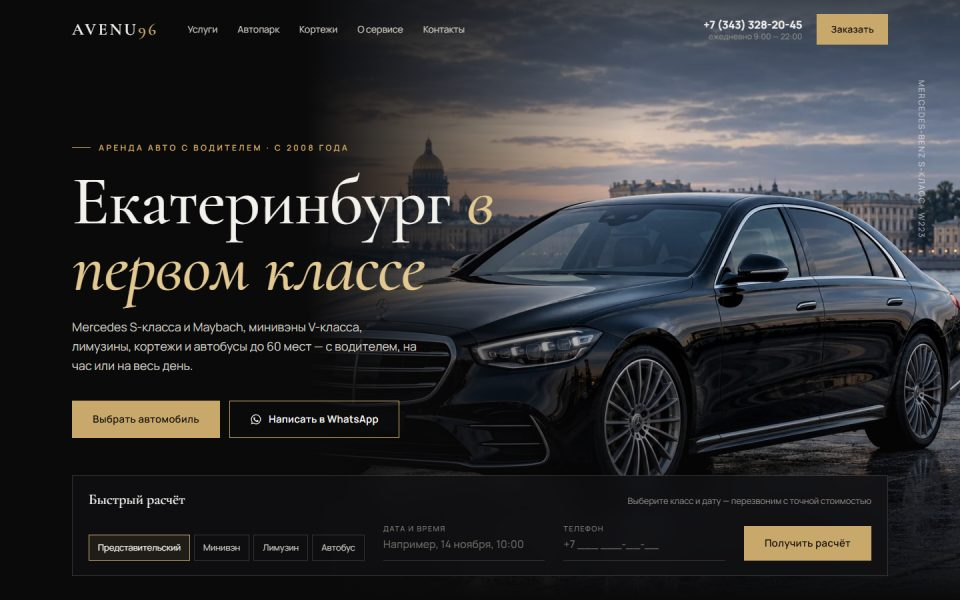
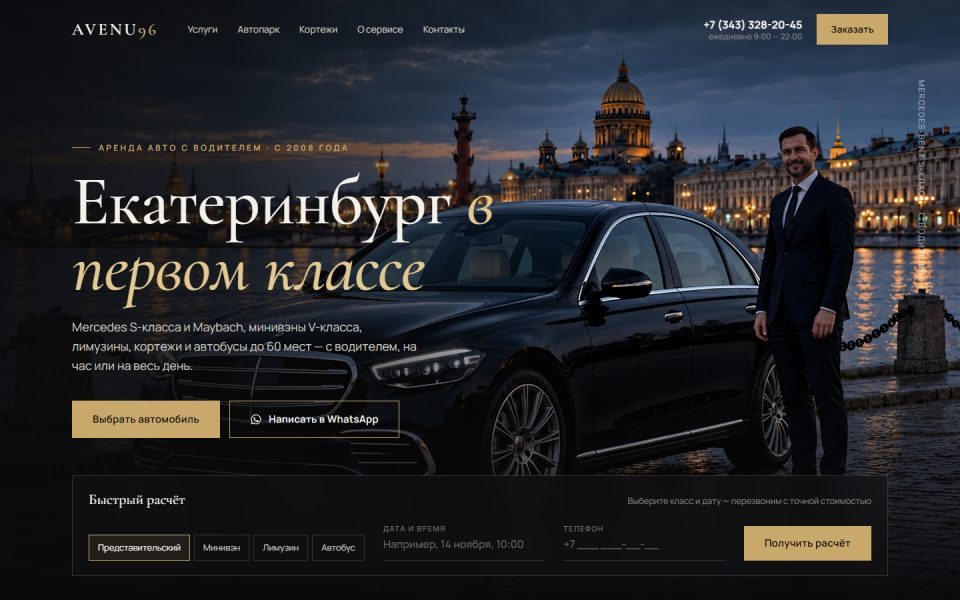
Dark concept: full-bleed hero with the S-class and chauffeur (merc-spb image)

diff --git a/1-dark.html b/1-dark.html
@@ -53,11 +53,11 @@ nav a:hover:after{right:0}
 
 /* hero */
 .hero{position:relative;min-height:max(720px,100svh);display:flex;align-items:flex-end;overflow:hidden;isolation:isolate}
-.hero .ph{position:absolute;top:0;right:0;bottom:0;width:68%;z-index:-2}
-.hero .ph img{width:100%;height:100%;object-fit:cover;object-position:58% 62%;filter:brightness(.92) contrast(1.05) saturate(.95);transform:scale(1.08);animation:drift 18s var(--ease) forwards}
+.hero .ph{position:absolute;inset:0;z-index:-2}
+.hero .ph img{width:100%;height:100%;object-fit:cover;object-position:62% 30%;filter:brightness(.95) contrast(1.04) saturate(.95);transform:scale(1.08);animation:drift 18s var(--ease) forwards}
 @keyframes drift{to{transform:scale(1)}}
 .hero:before{content:"";position:absolute;inset:0;z-index:-1;background:
-  linear-gradient(90deg,var(--bg) 0%,var(--bg) 32%,rgba(10,10,11,.6) 46%,rgba(10,10,11,0) 66%),
+  linear-gradient(90deg,rgba(10,10,11,.92) 0%,rgba(10,10,11,.78) 24%,rgba(10,10,11,.45) 42%,rgba(10,10,11,0) 62%),
   linear-gradient(0deg,var(--bg) 0%,rgba(10,10,11,.5) 22%,rgba(10,10,11,0) 46%),
   linear-gradient(180deg,rgba(10,10,11,.6) 0%,rgba(10,10,11,0) 22%)}
 .hero .wrap{width:100%;display:flex;flex-direction:column;justify-content:space-between;min-height:inherit;padding-bottom:36px;padding-top:150px;gap:56px}
@@ -209,7 +209,7 @@ footer .wrap{display:flex;justify-content:space-between;gap:20px;flex-wrap:wrap}
   .hcall .tel{font-size:15px}
   .hero{min-height:auto}
   .hero .ph{bottom:auto;height:470px;width:100%}
-  .hero .ph img{object-position:52% 60%}
+  .hero .ph img{object-position:42% 60%}
   .hero:before{background:linear-gradient(180deg,rgba(10,10,11,.55) 0%,rgba(10,10,11,0) 90px,rgba(10,10,11,0) 250px,rgba(10,10,11,.8) 380px,var(--bg) 470px)}
   .hero .wrap{padding-top:350px;padding-bottom:40px;gap:30px;min-height:0}
   .quick{grid-template-columns:1fr;padding:20px 18px}
@@ -257,8 +257,8 @@ footer .wrap{display:flex;justify-content:space-between;gap:20px;flex-wrap:wrap}
 </div></header>
 
 <div class="hero">
-  <div class="ph"><img src="img/hero-s223.jpg" alt="Mercedes-Benz S-класса W223"></div>
-  <span class="place">Mercedes-Benz S-класс · W223</span>
+  <div class="ph"><img src="img/hero-driver.jpg" alt="Mercedes-Benz S-класса W223 и водитель"></div>
+  <span class="place">Mercedes-Benz S-класс · с водителем</span>
   <div class="wrap">
     <div class="copy">
       <span class="eyebrow">Аренда авто с водителем · с 2008 года</span>
